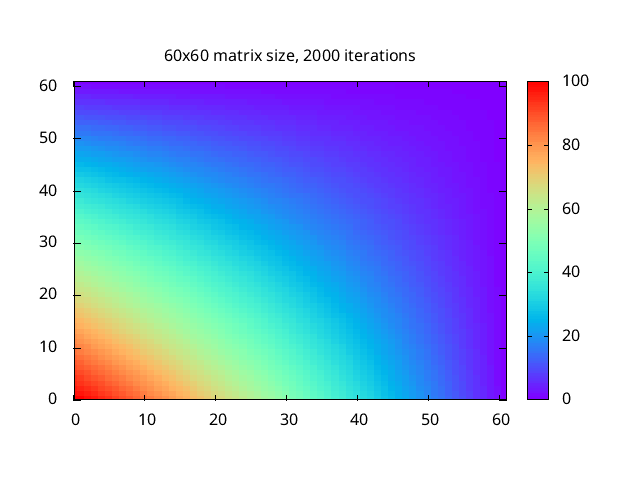
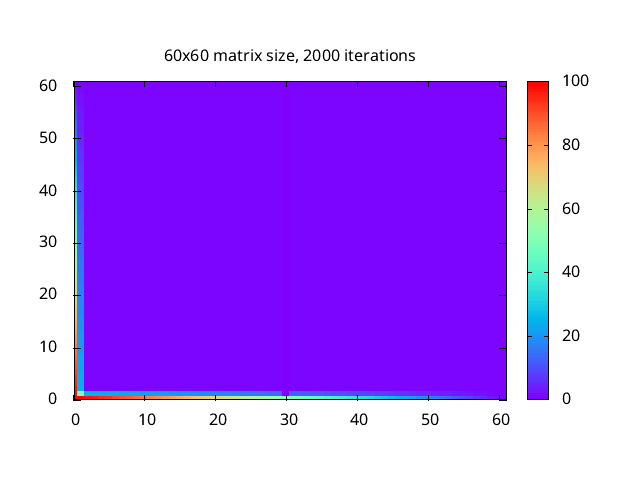
checkpoint-backup

diff --git a/jacobi-one-side/jacobi.c b/jacobi-one-side/jacobi.c
@@ -56,6 +56,10 @@ int main(int argc, char *argv[])
   // send up, recv bottom
   int send_to;
   int recv_from;
+#ifdef ONESIDE
+  MPI_Win win;
+#endif
+
 
   if (argc != 3)
   {
@@ -65,13 +69,13 @@ int main(int argc, char *argv[])
   dimension = atoi(argv[1]);
   iterations = atoi(argv[2]);
 
-  #ifdef VERBOSE
-    if (rank == 0)
+#ifdef VERBOSE
+  if (rank == 0)
       {
           printf("matrix size = %zu\n", dimension);
           printf("number of iterations = %zu\n", iterations);
       }
-  #endif
+#endif
 
   size_t local_size = dimension / size;
   if (rank < (dimension % size))
@@ -91,7 +95,7 @@ int main(int argc, char *argv[])
   start_time = seconds();
 
   // fill initial values
-  #pragma omp parallel for collapse(2)
+#pragma omp parallel for collapse(2)
   for (i = 1; i <= local_size; ++i)
   {
     for (j = 1; j <= dimension; ++j)
@@ -137,47 +141,56 @@ int main(int argc, char *argv[])
     /*   communication of the borders   */
     double comm_time_start = seconds();
 
-    #ifndef ONESIDE
-      MPI_Sendrecv(matrix + (dimension + 2), dimension + 2, MPI_DOUBLE, send_to, 0,
-                   matrix + (dimension + 2) * (local_size + 1), dimension + 2, MPI_DOUBLE, recv_from, 0,
-                   MPI_COMM_WORLD, MPI_STATUS_IGNORE);
-      MPI_Sendrecv(matrix + (dimension + 2) * local_size, dimension + 2, MPI_DOUBLE, recv_from, 0,
-                   matrix, dimension + 2, MPI_DOUBLE, send_to, 0, MPI_COMM_WORLD, MPI_STATUS_IGNORE);
-    #else
-      /*
-       * One sided communication: each process open a memory window to the other processes
+#ifndef ONESIDE
+    MPI_Sendrecv(matrix + (dimension + 2), dimension + 2, MPI_DOUBLE, send_to, 0,
+                 matrix + (dimension + 2) * (local_size + 1), dimension + 2, MPI_DOUBLE, recv_from, 0,
+                 MPI_COMM_WORLD, MPI_STATUS_IGNORE);
+    MPI_Sendrecv(matrix + (dimension + 2) * local_size, dimension + 2, MPI_DOUBLE, recv_from, 0,
+                 matrix, dimension + 2, MPI_DOUBLE, send_to, 0, MPI_COMM_WORLD, MPI_STATUS_IGNORE);
+#else
+    /*
+       * One sided communication: each process opens a memory window to the other processes
        * Only to exercise the one-sided communication:
        *  - PUT the data in the window
        *  - GET the data from the window
        */
 
-      MPI_Win win_up, win_down;  // first and last rows
-      if (rank != size - 1)
-      {
-        MPI_Win_create(matrix + (dimension + 2) * (local_size), (dimension + 2) * sizeof(double), sizeof(double), MPI_INFO_NULL, MPI_COMM_WORLD, &win_down);
-      }
-      if (rank != 0)
-      {
-        MPI_Win_create(matrix + (dimension + 2), (dimension + 2) * sizeof(double), sizeof(double), MPI_INFO_NULL, MPI_COMM_WORLD, &win_up);
-      }
-      MPI_Barrier(MPI_COMM_WORLD);
-      if (rank != size - 1)
-      {
-        MPI_Win_fence(0, win_down);
-        MPI_Put(matrix + (dimension + 2) * local_size, dimension + 2, MPI_DOUBLE, recv_from, 0, dimension + 2, MPI_DOUBLE, win_down);
-        MPI_Win_fence(0, win_down);
-      }
-      if (rank != 0)
-      {
-        MPI_Win_fence(0, win_up);
-        MPI_Put(matrix + (dimension + 2), dimension + 2, MPI_DOUBLE, send_to, 0, dimension + 2, MPI_DOUBLE, win_up);
-        MPI_Win_fence(0, win_up);
-      }
-      free(win_up);
-      free(win_down);
-      MPI_Barrier(MPI_COMM_WORLD);
-    #endif
+      // Define a window for the matrix
+      MPI_Win_create(matrix, byte_dimension, sizeof(double), MPI_INFO_NULL, MPI_COMM_WORLD, &win);
 
+      #ifdef PUT
+        // Put upper border to the previous process
+        MPI_Win_fence(0, win);
+        if (send_to != MPI_PROC_NULL) {
+          MPI_Put(matrix + (dimension + 2), dimension + 2, MPI_DOUBLE, send_to, (dimension + 2) * (local_size + 1), dimension + 2, MPI_DOUBLE, win);
+        }
+        MPI_Win_fence(0, win);
+
+        // Put lower border to the next process
+        MPI_Win_fence(0, win);
+        if (recv_from != MPI_PROC_NULL) {
+          MPI_Put(matrix + (dimension + 2) * local_size, dimension + 2, MPI_DOUBLE, recv_from, 0, dimension + 2, MPI_DOUBLE, win);
+        }
+        MPI_Win_fence(0, win);
+
+      #else // ifdef GET
+        // Get upper border from the previous process
+        MPI_Win_fence(0, win);
+        if (send_to != MPI_PROC_NULL) {
+          MPI_Get(matrix + (dimension + 2) * (local_size + 1), dimension + 2, MPI_DOUBLE, send_to, (dimension + 2) * (local_size + 1), dimension + 2, MPI_DOUBLE, win);
+        }
+        MPI_Win_fence(0, win);
+
+        // Get lower border from the next process
+        MPI_Win_fence(0, win);
+        if (recv_from != MPI_PROC_NULL) {
+          MPI_Get(matrix, dimension + 2, MPI_DOUBLE, recv_from, 0, dimension + 2, MPI_DOUBLE, win);
+        }
+        MPI_Win_fence(0, win);
+      #endif  // end of ifdef GET
+
+      MPI_Win_free(&win);
+#endif  // end of  ifdef ONESIDE
 
     communication_time += seconds() - comm_time_start;
     /*   end of communication of the borders   */
@@ -186,7 +199,7 @@ int main(int argc, char *argv[])
     double compute_time_start = seconds();
 
     /** evolve the matrix **/
-    #pragma omp parallel for collapse(2)
+#pragma omp parallel for collapse(2)
     for (i = 1; i <= local_size; ++i)
     {
       for (j = 1; j <= dimension; ++j)
@@ -226,8 +239,8 @@ int main(int argc, char *argv[])
   /** end of saving the results **/
 
   /** Print the times **/
-  #ifdef STOPWATCH
-    // time, rank, size, what
+#ifdef STOPWATCH
+  // time, rank, size, what
     printf("%.10f,%d,%d,%s\n", end_time - start_time, rank, size, "matrix-initialization");
     #ifdef _OPENACC
     printf("%.10f,%d,%d,%s\n", copyin_end - copyin_start, rank, size, "copy-matrix-cpu-to-gpu");
@@ -235,7 +248,7 @@ int main(int argc, char *argv[])
     #endif
     printf("%.10f,%d,%d,%s\n", communication_time, rank, size, "mpi-send-rec");
     printf("%.10f,%d,%d,%s\n", compute_time, rank, size, "computation");
-  #endif
+#endif
   /** End of printing time **/
 
   /** Finalize the program **/
@@ -298,3 +311,4 @@ void set_displacement(int *displacement, const int *recvcount, int size)
   }
 }
 /*** end of function definitions ***/
+
